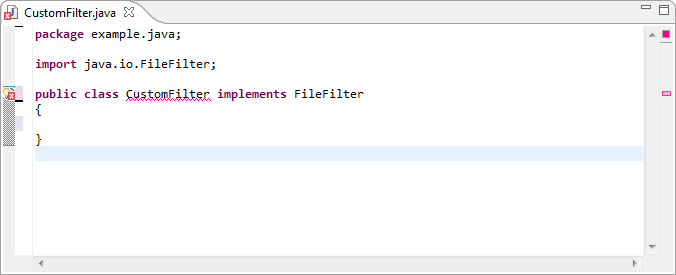
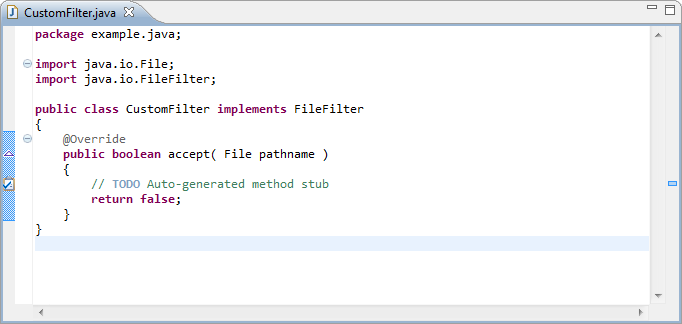
Bug 354898 - Provide an option to create class, in addition to browse

diff --git a/plugins/org.eclipse.sapphire.java.jdt.ui/src/org/eclipse/sapphire/java/jdt/ui/internal/JavaTypeCreateActionHandler.java b/plugins/org.eclipse.sapphire.java.jdt.ui/src/org/eclipse/sapphire/java/jdt/ui/internal/JavaTypeCreateActionHandler.java
@@ -11,12 +11,15 @@
 
 package org.eclipse.sapphire.java.jdt.ui.internal;
 
+import static java.lang.Math.min;
+
 import java.lang.reflect.InvocationTargetException;
 import java.util.ArrayList;
 import java.util.Collection;
 import java.util.List;
 
 import org.eclipse.core.resources.IProject;
+import org.eclipse.core.resources.IWorkspaceRunnable;
 import org.eclipse.core.runtime.CoreException;
 import org.eclipse.core.runtime.IProgressMonitor;
 import org.eclipse.jdt.core.ICompilationUnit;
@@ -26,11 +29,21 @@ import org.eclipse.jdt.core.IPackageFragmentRoot;
 import org.eclipse.jdt.core.IType;
 import org.eclipse.jdt.core.JavaCore;
 import org.eclipse.jdt.core.JavaModelException;
+import org.eclipse.jdt.core.dom.AST;
+import org.eclipse.jdt.core.dom.ASTNode;
+import org.eclipse.jdt.core.dom.ASTParser;
+import org.eclipse.jdt.core.dom.AbstractTypeDeclaration;
+import org.eclipse.jdt.core.dom.CompilationUnit;
+import org.eclipse.jdt.core.dom.ITypeBinding;
+import org.eclipse.jdt.core.dom.NodeFinder;
 import org.eclipse.jdt.ui.JavaUI;
 import org.eclipse.jdt.ui.actions.FormatAllAction;
 import org.eclipse.jdt.ui.actions.OrganizeImportsAction;
+import org.eclipse.jdt.ui.actions.OverrideMethodsAction;
+import org.eclipse.jface.dialogs.MessageDialog;
 import org.eclipse.jface.dialogs.ProgressMonitorDialog;
 import org.eclipse.jface.operation.IRunnableWithProgress;
+import org.eclipse.osgi.util.NLS;
 import org.eclipse.sapphire.DisposeEvent;
 import org.eclipse.sapphire.Event;
 import org.eclipse.sapphire.Listener;
@@ -88,8 +101,12 @@ public abstract class JavaTypeCreateActionHandler extends SapphirePropertyEditor
         
         if( javaTypeConstraintAnnotation != null )
         {
-            for( String typeName : javaTypeConstraintAnnotation.type() )
+            final String[] types = javaTypeConstraintAnnotation.type();
+            
+            for( int i = 0, n = ( javaTypeConstraintAnnotation.behavior() == JavaTypeConstraintBehavior.ALL ? types.length : min( 1, types.length ) ); i < n; i++ )
             {
+                final String typeName = types[ i ];
+                
                 try
                 {
                     final IType type = jproj.findType( typeName );
@@ -153,14 +170,31 @@ public abstract class JavaTypeCreateActionHandler extends SapphirePropertyEditor
             return null;
         }
         
+        final JavaTypeName javaTypeName = javaTypeNameValue.getContent();
+        
+        if( javaTypeName.pkg() == null )
+        {
+            if( ! MessageDialog.openConfirm( context.getShell(), Resources.discourageDialogTitle, Resources.discourageDefaultPackage ) )
+            {
+                return null;
+            }
+        }
+        
+        if( ! Character.isUpperCase( javaTypeName.local().charAt( 0 ) ) )
+        {
+            if( ! MessageDialog.openConfirm( context.getShell(), Resources.discourageDialogTitle, Resources.discourageLowerCase ) )
+            {
+                return null;
+            }
+        }
+        
         final IRunnableWithProgress op = new IRunnableWithProgress()
         {
             public void run( final IProgressMonitor monitor ) throws InvocationTargetException, InterruptedException
             {
-                monitor.beginTask( "", 6 );
+                monitor.beginTask( "", 7 );
                 
                 final JavaTypeKind kind = JavaTypeCreateActionHandler.this.kind;
-                final JavaTypeName javaTypeName = javaTypeNameValue.getContent();
                 
                 final StringBuilder buf = new StringBuilder();
                 
@@ -267,6 +301,32 @@ public abstract class JavaTypeCreateActionHandler extends SapphirePropertyEditor
                     
                     monitor.worked( 1 );
                     
+                    if( kind == JavaTypeKind.CLASS )
+                    {
+                        final IType type = cu.getType( javaTypeName.local() );
+
+                        final ASTParser parser = ASTParser.newParser( AST.JLS3 );
+                        parser.setResolveBindings( true );
+                        parser.setSource( cu );
+                        
+                        final CompilationUnit ast = (CompilationUnit) parser.createAST( null );
+                        
+                        ASTNode node = NodeFinder.perform( ast, type.getNameRange() );
+                        
+                        while( ! ( node instanceof AbstractTypeDeclaration ) )
+                        {
+                            node = node.getParent();
+                        }
+                        
+                        final ITypeBinding typeBinding = ( (AbstractTypeDeclaration) node ).resolveBinding();
+                        
+                        final IWorkspaceRunnable op = OverrideMethodsAction.createRunnable( ast, typeBinding, null, -1, false );
+                        
+                        op.run( null );
+                    }
+                    
+                    monitor.worked( 1 );
+                    
                     final OrganizeImportsAction organizeImportsAction = new OrganizeImportsAction( site );
                     organizeImportsAction.run( cu );
                     
@@ -362,12 +422,12 @@ public abstract class JavaTypeCreateActionHandler extends SapphirePropertyEditor
         
         if( collision )
         {
-            return type.qualified();
+            return type.qualified().replace( '$', '.' );
         }
         else
         {
             imports.add( type );
-            return type.local();
+            return type.local().replace( '$', '.' );
         }
     }
     
@@ -384,12 +444,7 @@ public abstract class JavaTypeCreateActionHandler extends SapphirePropertyEditor
                 
                 if( referenceAnnotation != null && referenceAnnotation.target() == JavaType.class )
                 {
-                    final JavaTypeConstraint javaTypeConstraint = property.getAnnotation( JavaTypeConstraint.class );
-                    
-                    if( javaTypeConstraint != null && javaTypeConstraint.behavior() == JavaTypeConstraintBehavior.ALL )
-                    {
-                        return evaluate( javaTypeConstraint );
-                    }
+                    return evaluate( property.getAnnotation( JavaTypeConstraint.class ) );
                 }
             }
             
@@ -397,6 +452,18 @@ public abstract class JavaTypeCreateActionHandler extends SapphirePropertyEditor
         }
         
         protected abstract boolean evaluate( JavaTypeConstraint javaTypeConstraint );
-    }    
+    }
 
+    private static final class Resources extends NLS 
+    {
+        public static String discourageDialogTitle;
+        public static String discourageDefaultPackage;
+        public static String discourageLowerCase;
+
+        static 
+        {
+            initializeMessages( JavaTypeCreateActionHandler.class.getName(), Resources.class );
+        }
+    }
+    
 }

diff --git a/plugins/org.eclipse.sapphire.java.jdt.ui/src/org/eclipse/sapphire/java/jdt/ui/internal/JavaTypeCreateClassActionHandler.java b/plugins/org.eclipse.sapphire.java.jdt.ui/src/org/eclipse/sapphire/java/jdt/ui/internal/JavaTypeCreateClassActionHandler.java
@@ -30,15 +30,22 @@ public final class JavaTypeCreateClassActionHandler extends JavaTypeCreateAction
         @Override
         protected boolean evaluate( final JavaTypeConstraint javaTypeConstraint )
         {
-            for( JavaTypeKind kind : javaTypeConstraint.kind() )
+            if( javaTypeConstraint == null )
             {
-                if( kind == JavaTypeKind.CLASS || kind == JavaTypeKind.ABSTRACT_CLASS )
-                {
-                    return true;
-                }
+                return true;
             }
-            
-            return false;
+            else
+            {
+                for( JavaTypeKind kind : javaTypeConstraint.kind() )
+                {
+                    if( kind == JavaTypeKind.CLASS || kind == JavaTypeKind.ABSTRACT_CLASS )
+                    {
+                        return true;
+                    }
+                }
+                
+                return false;
+            }
         }
     }    
 

diff --git a/plugins/org.eclipse.sapphire.java.jdt.ui/src/org/eclipse/sapphire/java/jdt/ui/internal/JavaTypeCreateAnnotationActionHandler.java b/plugins/org.eclipse.sapphire.java.jdt.ui/src/org/eclipse/sapphire/java/jdt/ui/internal/JavaTypeCreateAnnotationActionHandler.java
@@ -30,15 +30,22 @@ public final class JavaTypeCreateAnnotationActionHandler extends JavaTypeCreateA
         @Override
         protected boolean evaluate( final JavaTypeConstraint javaTypeConstraint )
         {
-            for( JavaTypeKind kind : javaTypeConstraint.kind() )
+            if( javaTypeConstraint == null )
             {
-                if( kind == JavaTypeKind.ANNOTATION )
-                {
-                    return true;
-                }
+                return true;
             }
-            
-            return false;
+            else
+            {
+                for( JavaTypeKind kind : javaTypeConstraint.kind() )
+                {
+                    if( kind == JavaTypeKind.ANNOTATION )
+                    {
+                        return true;
+                    }
+                }
+                
+                return false;
+            }
         }
     }    
 

diff --git a/plugins/org.eclipse.sapphire.java.jdt.ui/src/org/eclipse/sapphire/java/jdt/ui/internal/JavaTypeCreateInterfaceActionHandler.java b/plugins/org.eclipse.sapphire.java.jdt.ui/src/org/eclipse/sapphire/java/jdt/ui/internal/JavaTypeCreateInterfaceActionHandler.java
@@ -30,15 +30,22 @@ public final class JavaTypeCreateInterfaceActionHandler extends JavaTypeCreateAc
         @Override
         protected boolean evaluate( final JavaTypeConstraint javaTypeConstraint )
         {
-            for( JavaTypeKind kind : javaTypeConstraint.kind() )
+            if( javaTypeConstraint == null )
             {
-                if( kind == JavaTypeKind.INTERFACE )
-                {
-                    return true;
-                }
+                return true;
             }
-            
-            return false;
+            else
+            {
+                for( JavaTypeKind kind : javaTypeConstraint.kind() )
+                {
+                    if( kind == JavaTypeKind.INTERFACE )
+                    {
+                        return true;
+                    }
+                }
+                
+                return false;
+            }
         }
     }    
 

diff --git a/plugins/org.eclipse.sapphire.java.jdt.ui/src/org/eclipse/sapphire/java/jdt/ui/internal/JavaTypeCreateEnumActionHandler.java b/plugins/org.eclipse.sapphire.java.jdt.ui/src/org/eclipse/sapphire/java/jdt/ui/internal/JavaTypeCreateEnumActionHandler.java
@@ -30,15 +30,22 @@ public final class JavaTypeCreateEnumActionHandler extends JavaTypeCreateActionH
         @Override
         protected boolean evaluate( final JavaTypeConstraint javaTypeConstraint )
         {
-            for( JavaTypeKind kind : javaTypeConstraint.kind() )
+            if( javaTypeConstraint == null )
             {
-                if( kind == JavaTypeKind.ENUM )
-                {
-                    return true;
-                }
+                return true;
             }
-            
-            return false;
+            else
+            {
+                for( JavaTypeKind kind : javaTypeConstraint.kind() )
+                {
+                    if( kind == JavaTypeKind.ENUM )
+                    {
+                        return true;
+                    }
+                }
+                
+                return false;
+            }
         }
     }    
 
